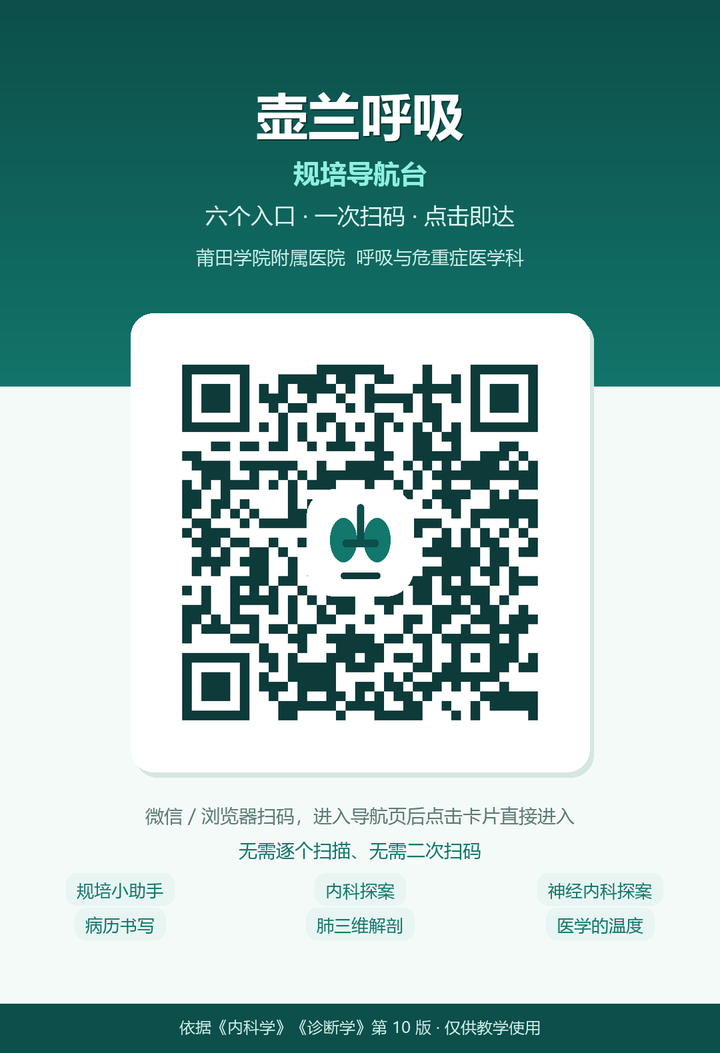
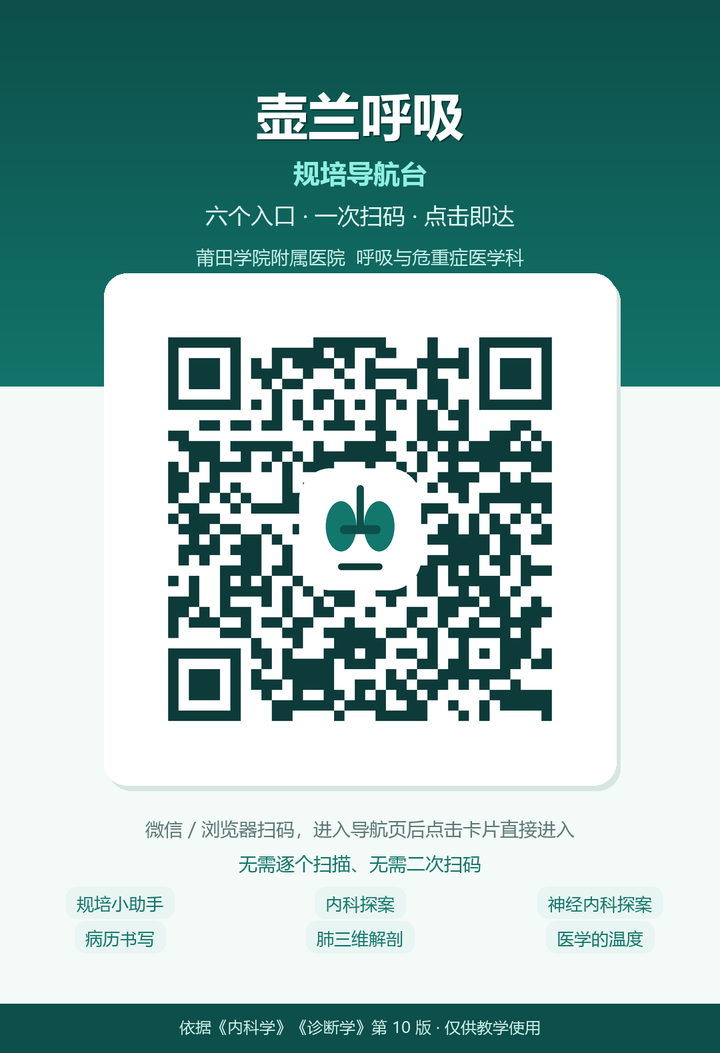
fix: 卡片入场改用 class 切换，避免 headless/低端机不渲染；二维码提至 1800px

Changed region(s): [[0.1222, 0.2431, 0.8861, 0.9117], [0.7639, 0.8205, 0.9167, 0.9117], [0.0917, 0.8205, 0.2444, 0.9117]]

diff --git a/index.html b/index.html
@@ -95,12 +95,17 @@ header{padding:38px 4px 22px;color:#eafaf7}
   box-shadow:0 4px 16px rgba(13,79,74,.07),0 1px 2px rgba(13,79,74,.05);
   text-decoration:none;color:var(--ink);
   overflow:hidden;cursor:pointer;
-  transform:translateY(16px) scale(.985);opacity:0;
-  animation:rise .52s cubic-bezier(.22,.9,.30,1.02) forwards;
-  animation-delay:var(--d);
   transition:transform .22s cubic-bezier(.2,.8,.3,1),box-shadow .22s,border-color .22s;
 }
-@keyframes rise{to{transform:translateY(0) scale(1);opacity:1}}
+.card.in{
+  transform:translateY(0) scale(1);opacity:1;
+}
+.card.pre{
+  transform:translateY(16px) scale(.985);opacity:0;
+}
+.anim{
+  transition:transform .52s cubic-bezier(.22,.9,.30,1.02),opacity .52s ease,box-shadow .22s,border-color .22s;
+}
 .card::before{
   content:"";position:absolute;left:0;top:0;bottom:0;width:4px;
   background:linear-gradient(180deg,var(--glow),var(--teal));
@@ -288,7 +293,7 @@ const jumpName = document.getElementById('jumpName');
 
 SITES.forEach((s, k) => {
   const a = document.createElement('a');
-  a.className = 'card';
+  a.className = 'card pre';
   a.href = s.u;
   a.style.setProperty('--d', (80 + k * 65) + 'ms');
   a.style.setProperty('--c1', s.c1);
@@ -301,6 +306,15 @@ SITES.forEach((s, k) => {
       <p>${s.d}</p>
     </div>
     <div class="go"><svg viewBox="0 0 24 24"><path d="M9 6l6 6-6 6"/></svg></div>`;
+  grid.appendChild(a);
+
+  // 入场：下一帧开启过渡，保证任何环境都能正常显示
+  const delay = 80 + k * 65;
+  setTimeout(() => {
+    a.classList.add('anim');
+    requestAnimationFrame(() => a.classList.remove('pre'));
+  }, delay);
+
   a.addEventListener('click', e => {
     // 涟漪
     const r = document.createElement('div');
@@ -320,7 +334,6 @@ SITES.forEach((s, k) => {
     // 不阻止默认行为 —— 保证在微信等内置浏览器中正常跳转
     setTimeout(() => jump.classList.remove('on'), 1600);
   });
-});
-</script>
+});</script>
 </body>
 </html>
